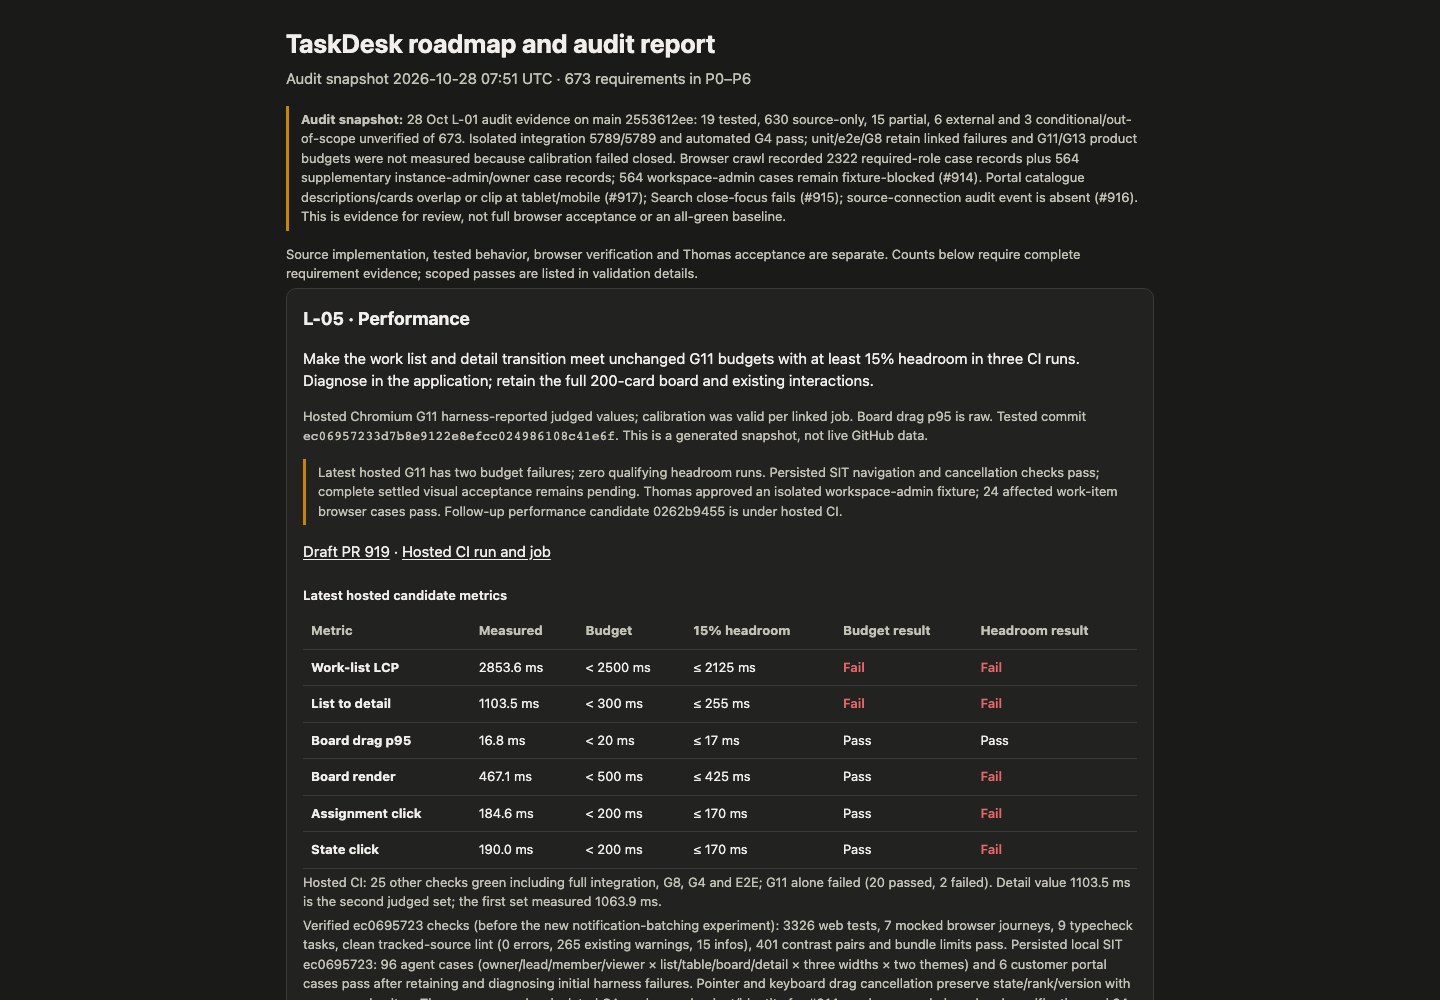
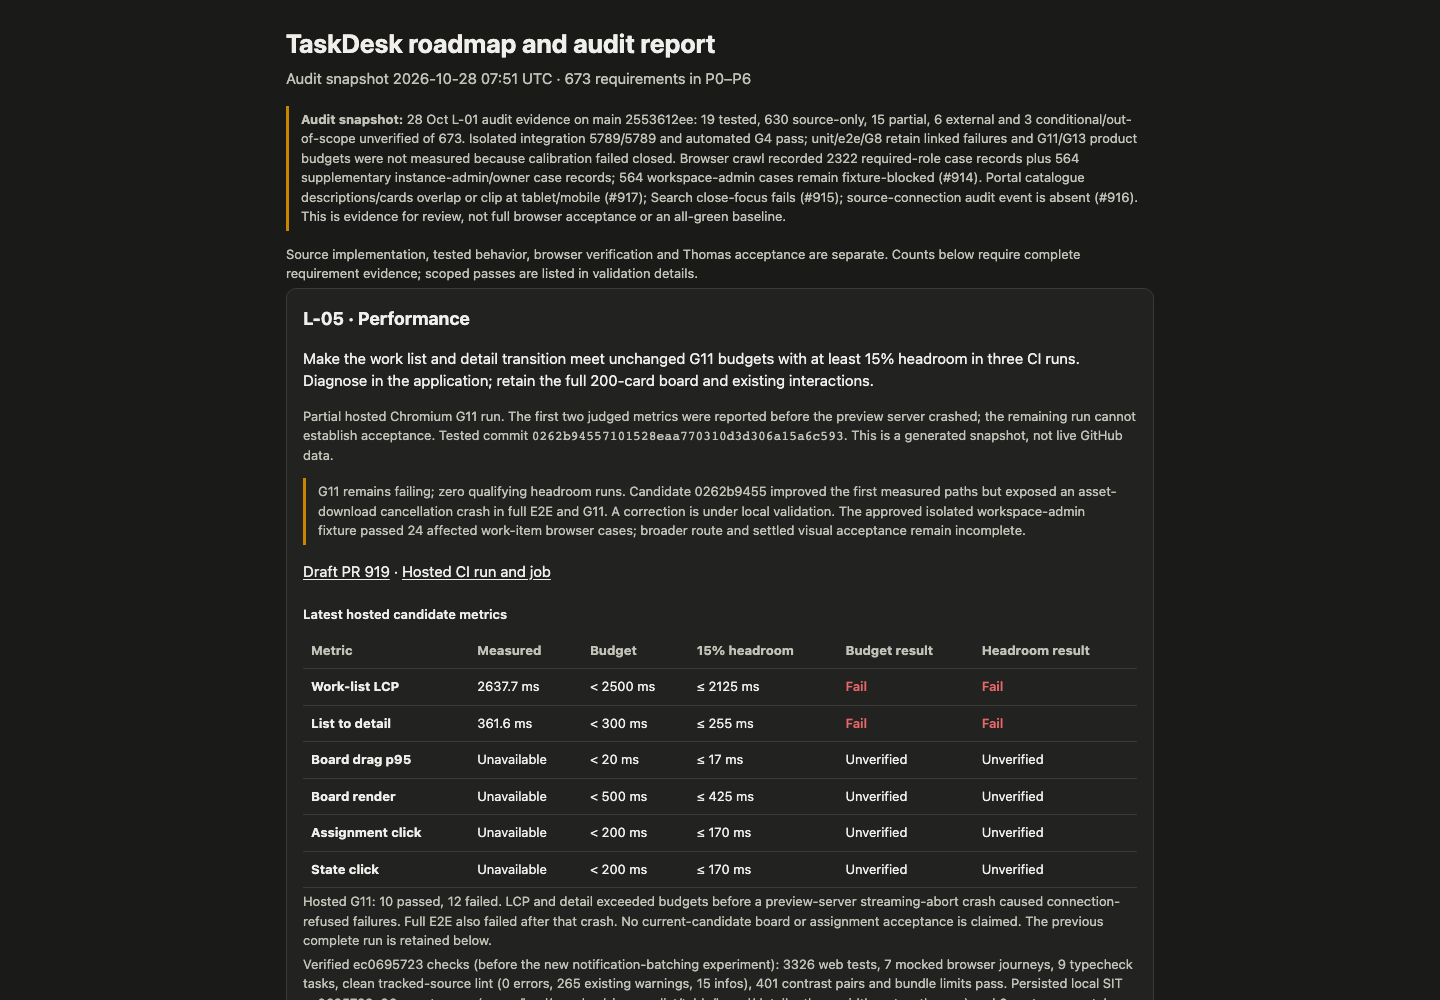
docs(report): distinguish partial performance and browser failures

diff --git a/docs/report/report.html b/docs/report/report.html
@@ -30,10 +30,10 @@ details{margin-top:8px}summary{cursor:pointer;font-weight:600}
 <p class="sub">Audit snapshot 2026-10-28 07:51 UTC · 673 requirements in P0–P6</p>
 <p class="note"><strong>Audit snapshot:</strong> 28 Oct L-01 audit evidence on main 2553612ee: 19 tested, 630 source-only, 15 partial, 6 external and 3 conditional/out-of-scope unverified of 673. Isolated integration 5789/5789 and automated G4 pass; unit/e2e/G8 retain linked failures and G11/G13 product budgets were not measured because calibration failed closed. Browser crawl recorded 2322 required-role case records plus 564 supplementary instance-admin/owner case records; 564 workspace-admin cases remain fixture-blocked (#914). Portal catalogue descriptions/cards overlap or clip at tablet/mobile (#917); Search close-focus fails (#915); source-connection audit event is absent (#916). This is evidence for review, not full browser acceptance or an all-green baseline.</p>
 <p class="meta">Source implementation, tested behavior, browser verification and Thomas acceptance are separate. Counts below require complete requirement evidence; scoped passes are listed in validation details.</p>
-<section class="card"><h2>L-05 · Performance</h2><p>Make the work list and detail transition meet unchanged G11 budgets with at least 15% headroom in three CI runs. Diagnose in the application; retain the full 200-card board and existing interactions.</p><p class="meta">Hosted Chromium G11 harness-reported judged values; calibration was valid per linked job. Board drag p95 is raw. Tested commit <code>ec06957233d7b8e9122e8efcc024986108c41e6f</code>. This is a generated snapshot, not live GitHub data.</p><p class="note">Latest hosted G11 has two budget failures; zero qualifying headroom runs. Persisted SIT navigation and cancellation checks pass; complete settled visual acceptance remains pending. Thomas approved an isolated workspace-admin fixture; 24 affected work-item browser cases pass. Follow-up performance candidate 0262b9455 is under hosted CI.</p><p><a href="https://github.com/ThomasHeinThura/ticketing/pull/919">Draft PR 919</a> · <a href="https://github.com/ThomasHeinThura/ticketing/actions/runs/40731412562/job/122968440838">Hosted CI run and job</a></p>
-<div class="table-wrap" tabindex="0" role="region" aria-label="Latest hosted candidate metrics table"><table><caption>Latest hosted candidate metrics</caption><thead><tr><th scope="col">Metric</th><th scope="col">Measured</th><th scope="col">Budget</th><th scope="col">15% headroom</th><th scope="col">Budget result</th><th scope="col">Headroom result</th></tr></thead><tbody><tr><th scope="row">Work-list LCP</th><td>2853.6 ms</td><td>&lt; 2500 ms</td><td>≤ 2125 ms</td><td class="metric-fail">Fail</td><td class="metric-fail">Fail</td></tr><tr><th scope="row">List to detail</th><td>1103.5 ms</td><td>&lt; 300 ms</td><td>≤ 255 ms</td><td class="metric-fail">Fail</td><td class="metric-fail">Fail</td></tr><tr><th scope="row">Board drag p95</th><td>16.8 ms</td><td>&lt; 20 ms</td><td>≤ 17 ms</td><td class="">Pass</td><td class="">Pass</td></tr><tr><th scope="row">Board render</th><td>467.1 ms</td><td>&lt; 500 ms</td><td>≤ 425 ms</td><td class="">Pass</td><td class="metric-fail">Fail</td></tr><tr><th scope="row">Assignment click</th><td>184.6 ms</td><td>&lt; 200 ms</td><td>≤ 170 ms</td><td class="">Pass</td><td class="metric-fail">Fail</td></tr><tr><th scope="row">State click</th><td>190.0 ms</td><td>&lt; 200 ms</td><td>≤ 170 ms</td><td class="">Pass</td><td class="metric-fail">Fail</td></tr></tbody></table></div><p class="meta">Hosted CI: 25 other checks green including full integration, G8, G4 and E2E; G11 alone failed (20 passed, 2 failed). Detail value 1103.5 ms is the second judged set; the first set measured 1063.9 ms.</p><p class="meta">Verified ec0695723 checks (before the new notification-batching experiment): 3326 web tests, 7 mocked browser journeys, 9 typecheck tasks, clean tracked-source lint (0 errors, 265 existing warnings, 15 infos), 401 contrast pairs and bundle limits pass. Persisted local SIT ec0695723: 96 agent cases (owner/lead/member/viewer × list/table/board/detail × three widths × two themes) and 6 customer portal cases pass after retaining and diagnosing initial harness failures. Pointer and keyboard drag cancellation preserve state/rank/version with zero record writes. Thomas approved an isolated QA workspace/project/identity for #914; workspace-admin-only role verification and 24 work-item cases pass (three widths, both themes, list/table/board/detail and reload). The broader 94-route admin crawl is separate and remains incomplete. These are scoped functional checks; initial captures include progressive placeholders, so whole-matrix settled visual acceptance is pending. Follow-up candidate 0262b9455 passes 7208 unit tests, nine typecheck tasks, 13 mocked browser journeys (including deferred translation failures/retry), 401 contrast pairs, raw UI, permission, contract, route-policy and bundle checks. Its local diagnostic LCP is 2240–2276 ms and detail is 121–170 ms; these are not hosted acceptance or the required headroom. Fresh Testcontainers integration and hosted CI are running.</p><details><summary>Previous hosted candidate</summary><p class="meta">Tested commit <code>48dec6ed2dc5daf6c73a771a652a8fb4d58feac8</code> · <a href="https://github.com/ThomasHeinThura/ticketing/actions/runs/40714505114/job/122908390393">Previous hosted job</a>. Hosted Chromium G11 judged values: CPU-bound metrics normalized; board-drag p95 raw. Worker calibration readings were 1.096–1.178; unthrottled readings were 1.166–1.183, within the existing validity envelope.</p><ul><li>Work-list LCP: 2769.5 ms; budget &lt; 2500 ms; headroom target ≤ 2125 ms; budget Fail.</li><li>List to detail: 518 ms; budget &lt; 300 ms; headroom target ≤ 255 ms; budget Fail.</li><li>Board drag p95: 16.8 ms; budget &lt; 20 ms; headroom target ≤ 17 ms; budget Pass.</li><li>Board render: 412.7 ms; budget &lt; 500 ms; headroom target ≤ 425 ms; budget Pass.</li><li>Assignment click: 165.2 ms; budget &lt; 200 ms; headroom target ≤ 170 ms; budget Pass.</li></ul><p class="meta">Hosted E2E 164 passed, 1 failed (create-control regression).</p></details></section>
+<section class="card"><h2>L-05 · Performance</h2><p>Make the work list and detail transition meet unchanged G11 budgets with at least 15% headroom in three CI runs. Diagnose in the application; retain the full 200-card board and existing interactions.</p><p class="meta">Partial hosted Chromium G11 run. The first two judged metrics were reported before the preview server crashed; the remaining run cannot establish acceptance. Tested commit <code>0262b94557101528eaa770310d3d306a15a6c593</code>. This is a generated snapshot, not live GitHub data.</p><p class="note">G11 remains failing; zero qualifying headroom runs. Candidate 0262b9455 improved the first measured paths but exposed an asset-download cancellation crash in full E2E and G11. A correction is under local validation. The approved isolated workspace-admin fixture passed 24 affected work-item browser cases; broader route and settled visual acceptance remain incomplete.</p><p><a href="https://github.com/ThomasHeinThura/ticketing/pull/919">Draft PR 919</a> · <a href="https://github.com/ThomasHeinThura/ticketing/actions/runs/40751405333/job/123038763633">Hosted CI run and job</a></p>
+<div class="table-wrap" tabindex="0" role="region" aria-label="Latest hosted candidate metrics table"><table><caption>Latest hosted candidate metrics</caption><thead><tr><th scope="col">Metric</th><th scope="col">Measured</th><th scope="col">Budget</th><th scope="col">15% headroom</th><th scope="col">Budget result</th><th scope="col">Headroom result</th></tr></thead><tbody><tr><th scope="row">Work-list LCP</th><td>2637.7 ms</td><td>&lt; 2500 ms</td><td>≤ 2125 ms</td><td class="metric-fail">Fail</td><td class="metric-fail">Fail</td></tr><tr><th scope="row">List to detail</th><td>361.6 ms</td><td>&lt; 300 ms</td><td>≤ 255 ms</td><td class="metric-fail">Fail</td><td class="metric-fail">Fail</td></tr><tr><th scope="row">Board drag p95</th><td>Unavailable</td><td>&lt; 20 ms</td><td>≤ 17 ms</td><td class="">Unverified</td><td class="">Unverified</td></tr><tr><th scope="row">Board render</th><td>Unavailable</td><td>&lt; 500 ms</td><td>≤ 425 ms</td><td class="">Unverified</td><td class="">Unverified</td></tr><tr><th scope="row">Assignment click</th><td>Unavailable</td><td>&lt; 200 ms</td><td>≤ 170 ms</td><td class="">Unverified</td><td class="">Unverified</td></tr><tr><th scope="row">State click</th><td>Unavailable</td><td>&lt; 200 ms</td><td>≤ 170 ms</td><td class="">Unverified</td><td class="">Unverified</td></tr></tbody></table></div><p class="meta">Hosted G11: 10 passed, 12 failed. LCP and detail exceeded budgets before a preview-server streaming-abort crash caused connection-refused failures. Full E2E also failed after that crash. No current-candidate board or assignment acceptance is claimed. The previous complete run is retained below.</p><p class="meta">Verified ec0695723 checks (before the new notification-batching experiment): 3326 web tests, 7 mocked browser journeys, 9 typecheck tasks, clean tracked-source lint (0 errors, 265 existing warnings, 15 infos), 401 contrast pairs and bundle limits pass. Persisted local SIT ec0695723: 96 agent cases (owner/lead/member/viewer × list/table/board/detail × three widths × two themes) and 6 customer portal cases pass after retaining and diagnosing initial harness failures. Pointer and keyboard drag cancellation preserve state/rank/version with zero record writes. Thomas approved an isolated QA workspace/project/identity for #914; workspace-admin-only role verification and 24 work-item cases pass (three widths, both themes, list/table/board/detail and reload). The broader 94-route admin crawl is separate and remains incomplete. These are scoped functional checks; initial captures include progressive placeholders, so whole-matrix settled visual acceptance is pending. Follow-up candidate 0262b9455 passes 7208 unit tests, nine typecheck tasks, 13 mocked browser journeys (including deferred translation failures/retry), 401 contrast pairs, raw UI, permission, contract, route-policy and bundle checks. Its local diagnostic LCP is 2240–2276 ms and detail is 121–170 ms; these are not hosted acceptance or the required headroom. Fresh Testcontainers integration passed 5789 tests across 478 files. Hosted G4 and G8 passed for 0262b9455. Pinned visual G8: 104 passed, one known module-detail mismatch (#908); actual and diff PNGs are byte-identical to the baseline audit. Sequential G4: 19 passed, two board-readiness failures before axe; these are being diagnosed, not waived. Asset-cancellation correction passes two focused HTTP tests plus six helper/adapter tests; it remains uncommitted and unverified by full hosted E2E.</p><details><summary>Previous hosted candidate</summary><p class="meta">Tested commit <code>ec06957233d7b8e9122e8efcc024986108c41e6f</code> · <a href="https://github.com/ThomasHeinThura/ticketing/actions/runs/40731412562/job/122968440838">Previous hosted job</a>. Hosted Chromium G11 harness-reported judged values; calibration was valid per linked job. Board drag p95 is raw.</p><ul><li>Work-list LCP: 2853.6 ms; budget &lt; 2500 ms; headroom target ≤ 2125 ms; budget Fail.</li><li>List to detail: 1103.5 ms; budget &lt; 300 ms; headroom target ≤ 255 ms; budget Fail.</li><li>Board drag p95: 16.8 ms; budget &lt; 20 ms; headroom target ≤ 17 ms; budget Pass.</li><li>Board render: 467.1 ms; budget &lt; 500 ms; headroom target ≤ 425 ms; budget Pass.</li><li>Assignment click: 184.6 ms; budget &lt; 200 ms; headroom target ≤ 170 ms; budget Pass.</li><li>State click: 190.0 ms; budget &lt; 200 ms; headroom target ≤ 170 ms; budget Pass.</li></ul><p class="meta">Hosted CI: 25 other checks green including full integration, G8, G4 and E2E; G11 alone failed (20 passed, 2 failed). Detail value 1103.5 ms is the second judged set; the first set measured 1063.9 ms.</p><p class="meta">Tested commit <code>48dec6ed2dc5daf6c73a771a652a8fb4d58feac8</code> · <a href="https://github.com/ThomasHeinThura/ticketing/actions/runs/40714505114/job/122908390393">Previous hosted job</a>. Hosted Chromium G11 judged values: CPU-bound metrics normalized; board-drag p95 raw. Worker calibration readings were 1.096–1.178; unthrottled readings were 1.166–1.183, within the existing validity envelope.</p><ul><li>Work-list LCP: 2769.5 ms; budget &lt; 2500 ms; headroom target ≤ 2125 ms; budget Fail.</li><li>List to detail: 518 ms; budget &lt; 300 ms; headroom target ≤ 255 ms; budget Fail.</li><li>Board drag p95: 16.8 ms; budget &lt; 20 ms; headroom target ≤ 17 ms; budget Pass.</li><li>Board render: 412.7 ms; budget &lt; 500 ms; headroom target ≤ 425 ms; budget Pass.</li><li>Assignment click: 165.2 ms; budget &lt; 200 ms; headroom target ≤ 170 ms; budget Pass.</li></ul><p class="meta">Hosted E2E 164 passed, 1 failed (create-control regression).</p></details></section>
 <section class="card"><h2>Roadmap</h2>
-<p class="meta">Updated 2026-10-28 17:54 UTC · retained backlog order</p>
+<p class="meta">Updated 2026-10-28 19:25 UTC · retained backlog order</p>
 <div class="table-wrap" tabindex="0" role="region" aria-label="Ordered backlog table"><table><caption>Ordered backlog</caption><thead><tr><th scope="col">Item</th><th scope="col">Status</th><th scope="col">Done when</th></tr></thead><tbody><tr><th scope="row"><a href="https://github.com/ThomasHeinThura/ticketing/pull/918">L-01</a> · Baseline full audit</th><td>Evidence delivered; PR unmerged</td><td>Review, required CI and Thomas approval; blocked evidence remains explicit.</td></tr><tr><th scope="row"><a href="https://github.com/ThomasHeinThura/ticketing/pull/919">L-05</a> · Work-list performance headroom</th><td>In progress; draft PR</td><td>G11 green with at least 15% headroom for three CI runs.</td></tr><tr><th scope="row">L-02 · Test-suite reliability</th><td>Queued</td><td>Three consecutive green CI runs without retries; typical PR run ≤ 15 minutes.</td></tr><tr><th scope="row">L-03a · Release regression suite</th><td>Queued</td><td>Persisted journeys cover every area and role on local SIT.</td></tr><tr><th scope="row">L-03 · Settings split by scope</th><td>Queued</td><td>Account, project, workspace and God Mode entry points; redirects and role/browser checks.</td></tr><tr><th scope="row">L-04 · Pages editor</th><td>Queued</td><td>Keyboard-first block editor with persistence, conflict handling and browser verification.</td></tr><tr><th scope="row">L-06 · Open review lows</th><td>Queued</td><td>Fix each low or record an accepted decision.</td></tr><tr><th scope="row">L-07 · Requirement gaps</th><td>Queued</td><td>Close each confirmed gap with evidence or obtain an explicit descope.</td></tr><tr><th scope="row">L-08 · Browser coverage</th><td>Queued</td><td>Record outstanding role, screen, import, export and timing evidence.</td></tr><tr><th scope="row">L-09 · Security and data hardening</th><td>Queued</td><td>Fix issues with tests or close them with recorded decisions.</td></tr><tr><th scope="row">L-10 · Customer readiness</th><td>Queued</td><td>Install, configure, upgrade and restore the signed image with matching documentation.</td></tr><tr><th scope="row">L-11 · CI tooling issues</th><td>Queued</td><td>Fix or close obsolete issues with evidence.</td></tr><tr><th scope="row">T-1 · Thomas-only external evidence</th><td>External</td><td>Thomas records Entra validation, penetration test and other external decisions.</td></tr></tbody></table></div></section>
 <h2>Historical audit and phase evidence</h2>
 <section class="card"><h2>Overall</h2><svg viewBox="0 0 640 26" role="img" aria-label="ALL requirement states, Implemented + current test evidence: 19, Browser verified: 0, Implemented; current verification pending: 630, Partial / open: 15, Missing: 0, Externally blocked: 6, Unverified / conditional scope: 3" class="bar"><rect x="1" y="0" width="16.068350668647845" height="26" rx="3" class="c1"><title>Implemented + current test evidence: 19</title></rect><rect x="19.068350668647845" y="0" width="597.108469539376" height="26" rx="3" class="c2"><title>Implemented; current verification pending: 630</title></rect><rect x="618.1768202080239" y="0" width="12.264487369985142" height="26" rx="3" class="c3"><title>Partial / open: 15</title></rect><rect x="632.441307578009" y="0" width="3.7057949479940557" height="26" rx="3" class="c5"><title>Externally blocked: 6</title></rect><rect x="638.147102526003" y="0" width="1" height="26" rx="3" class="c6"><title>Unverified / conditional scope: 3</title></rect></svg><div class="legend"><span class="lg"><i class="c1"></i>Implemented + current test evidence: 19</span><span class="lg"><i class="c7"></i>Browser verified: 0</span><span class="lg"><i class="c2"></i>Implemented; current verification pending: 630</span><span class="lg"><i class="c3"></i>Partial / open: 15</span><span class="lg"><i class="c4"></i>Missing: 0</span><span class="lg"><i class="c5"></i>Externally blocked: 6</span><span class="lg"><i class="c6"></i>Unverified / conditional scope: 3</span></div></section>
